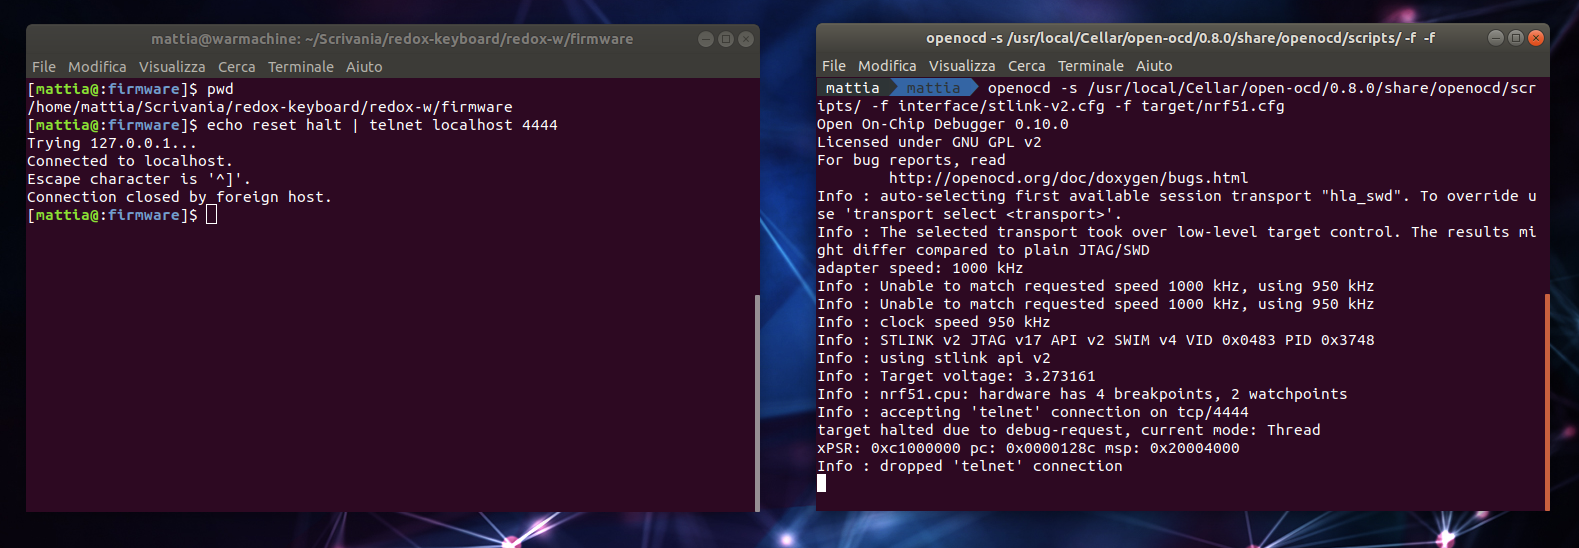
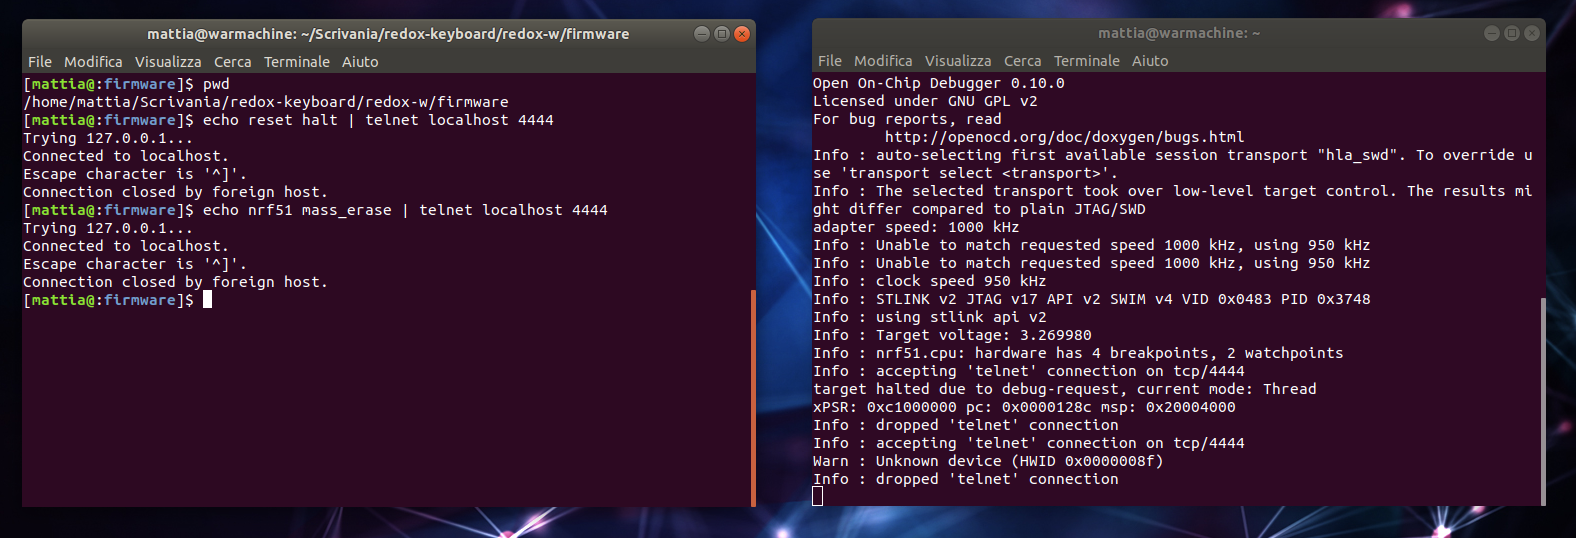
Added some more screenshots

Changed region(s): [[0.0, 0.0, 1.0, 1.0]]

diff --git a/redox-w/README.md b/redox-w/README.md
@@ -294,7 +294,7 @@ echo nrf51 mass_erase | telnet localhost 4444
 You should be seeing some movement in the OpenOCD terminal window, and you desktop should be looking somewhat like this:
 
 <p align="center">
-<img src="../img/redox-w-firmware-2.png" alt="Receiver firmware flashing." width="600"/>
+<img src="../img/redox-w-firmware-2.png" alt="Receiver firmware flashing." width="900"/>
 </p>
 
 Now we can upload the receiver firmware onto the MCU.
@@ -304,6 +304,13 @@ echo reset halt | telnet localhost 4444
 echo flash write_image `readlink -f precompiled-basic-receiver.hex` | telnet localhost 4444
 echo reset | telnet localhost 4444
 ```
+
+You should be looking at something like this:
+
+<p align="center">
+<img src="../img/redox-w-firmware-4.png" alt="Receiver firmware flashing." width="900"/>
+</p>
+
 
 Now close the OpenOCD session (use `Ctrl-C`) and you're done with the receiver. Repeat these steps for the two halves of the keyboard and you should be set.
 
